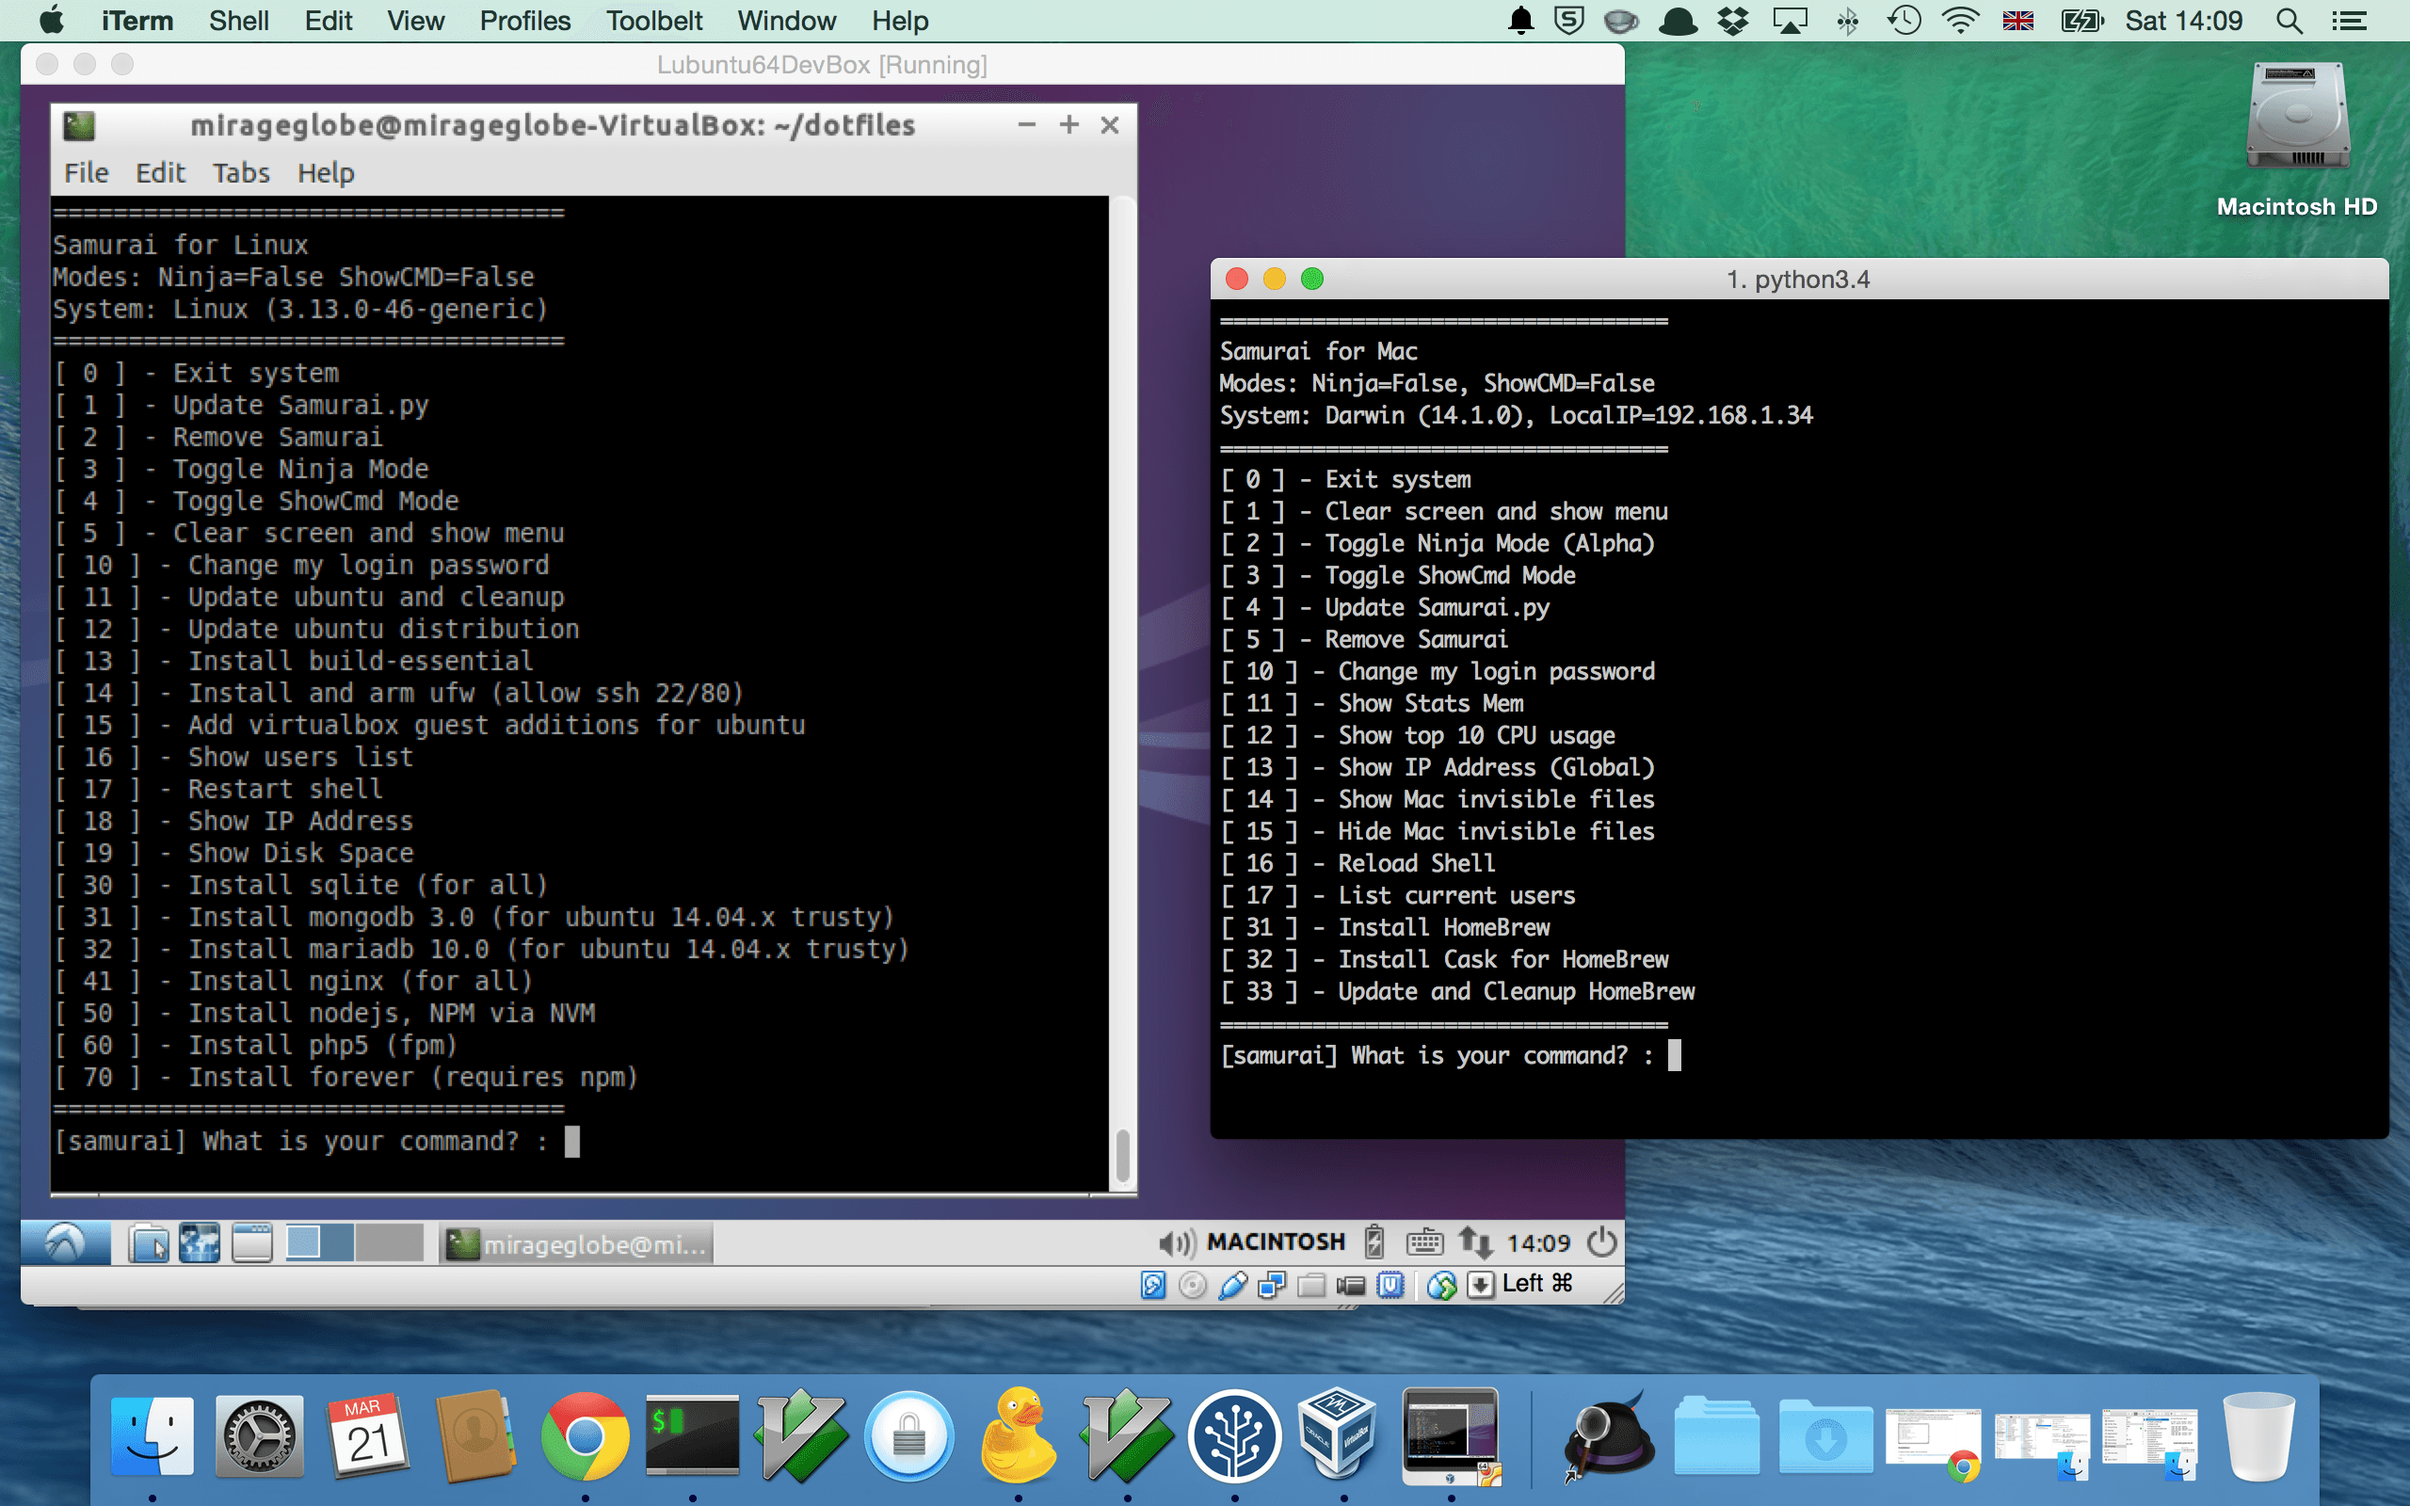
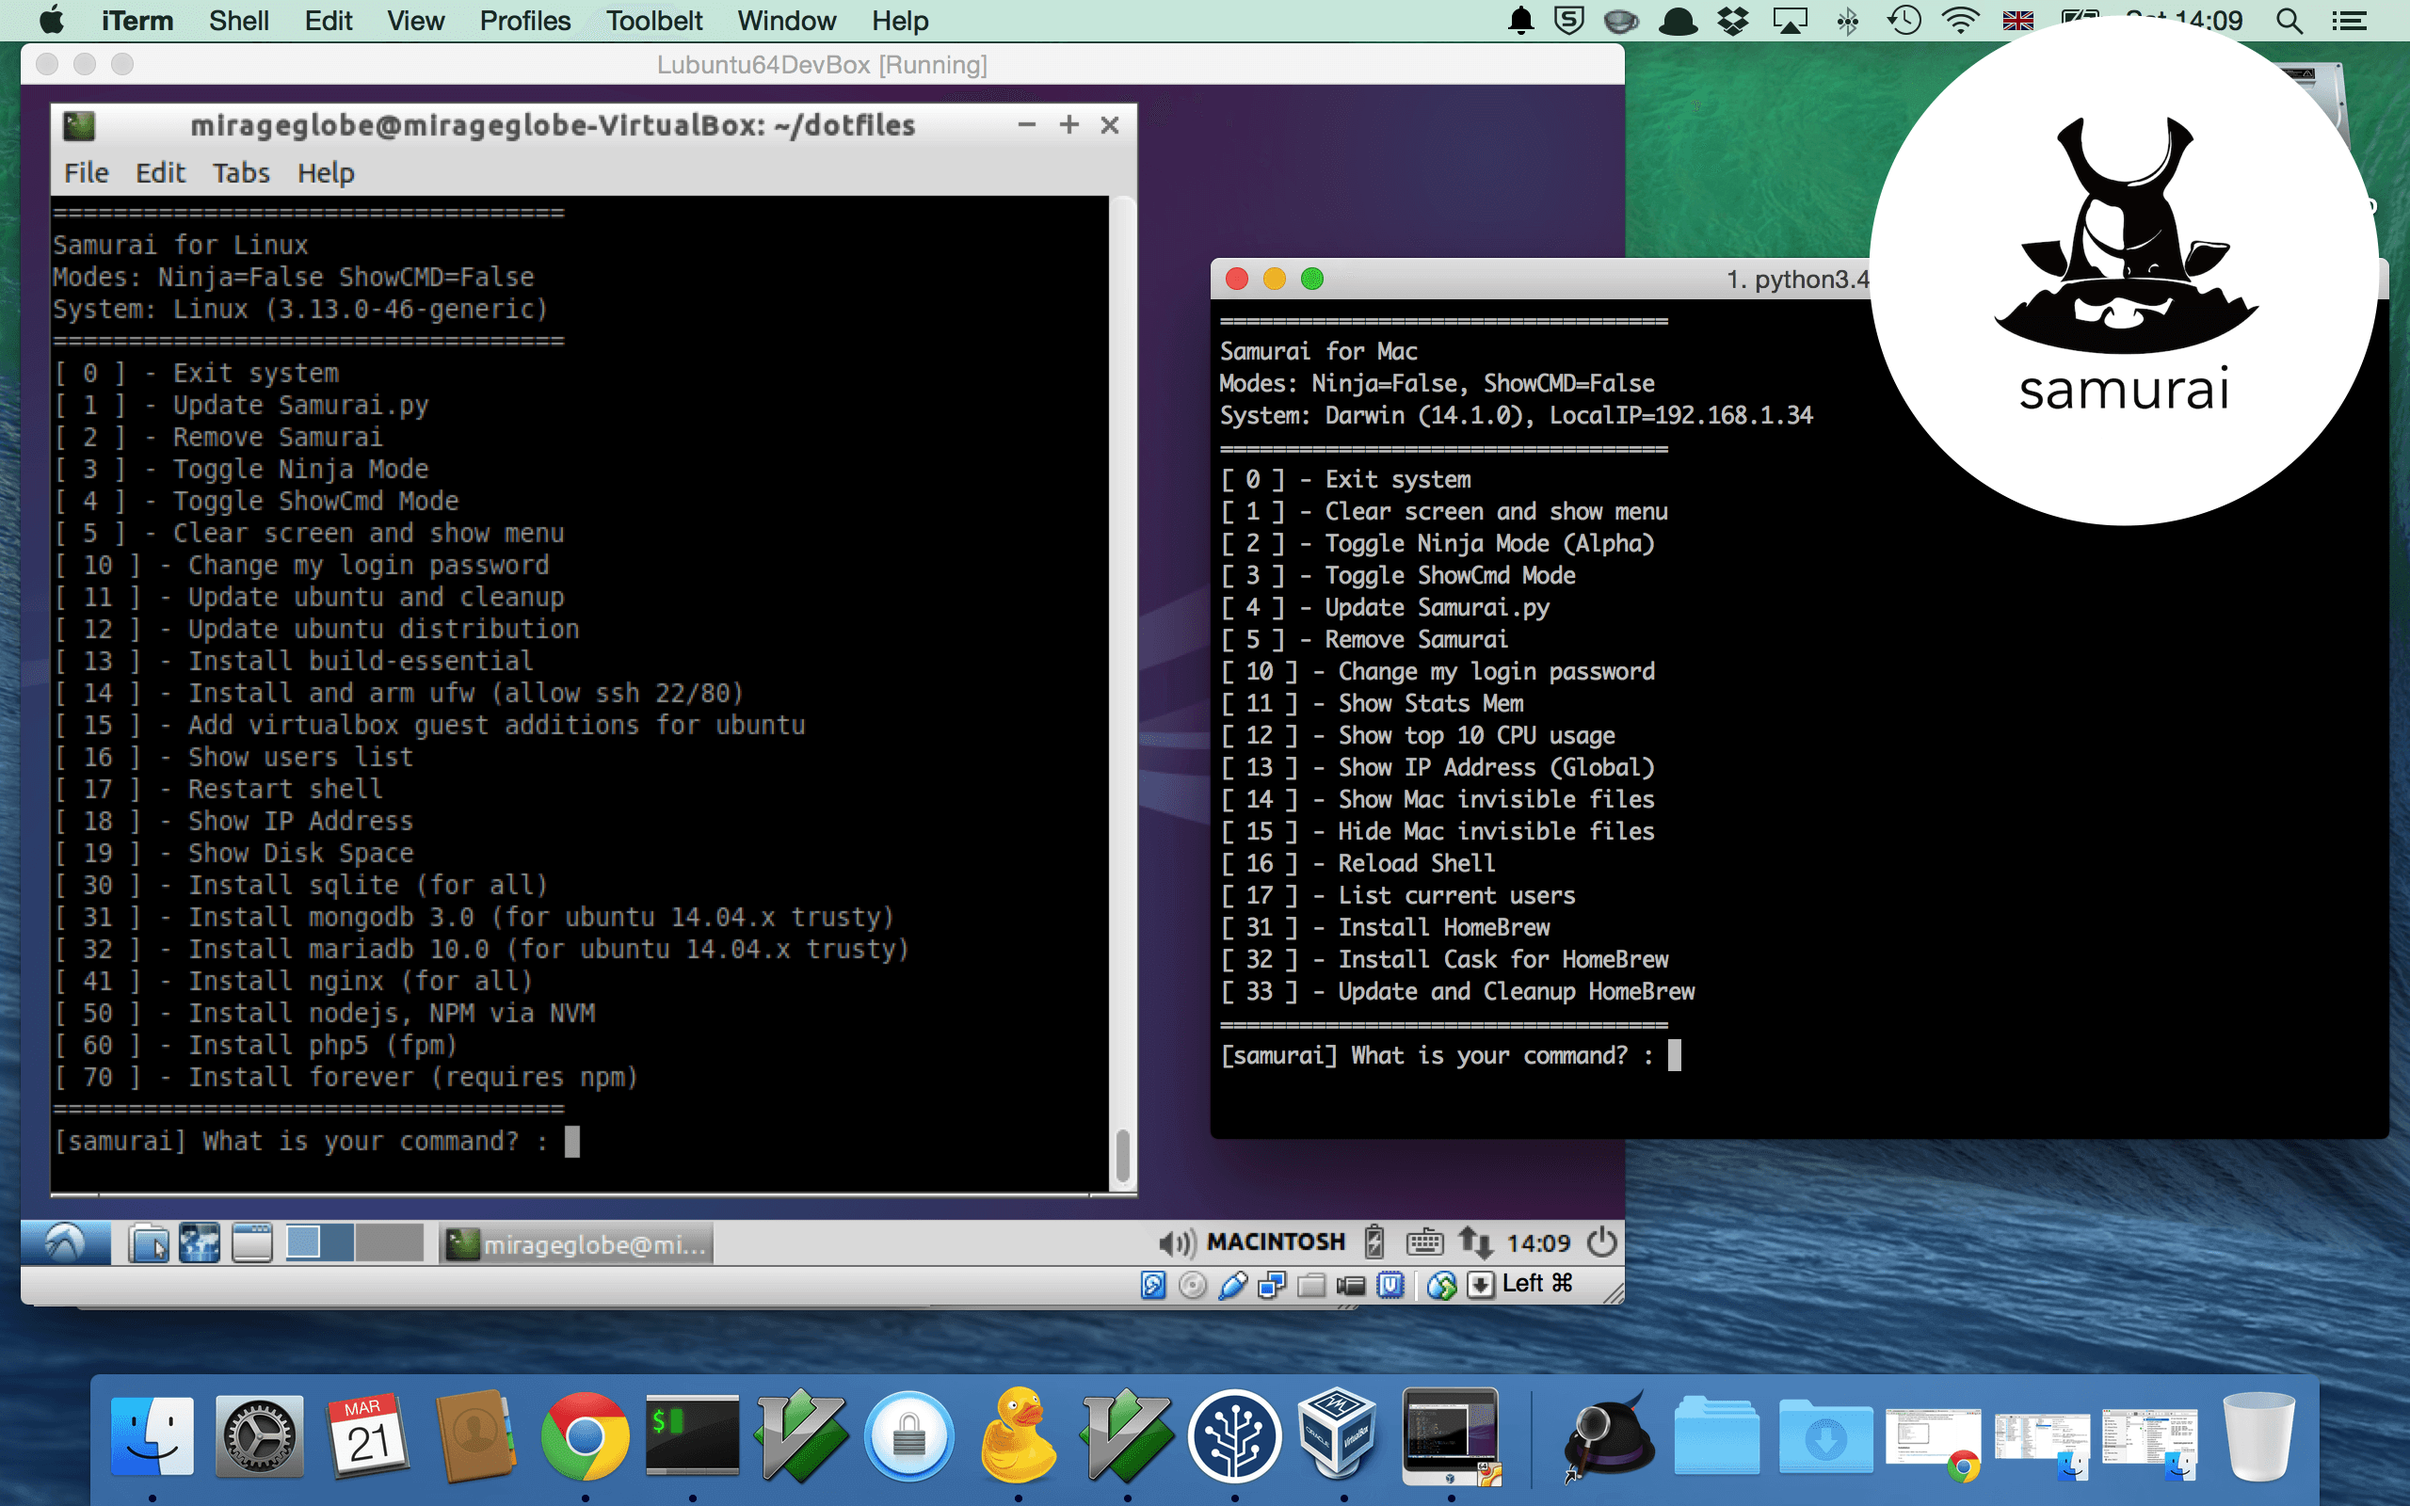
beautify front

Changed region(s): [[0.75, 0.0, 1.0, 0.375]]

diff --git a/README.md b/README.md
@@ -1,20 +1,18 @@
 Samurai
 ================================================
 
+![samurai menu](https://raw.githubusercontent.com/mirageglobe/samurai/master/samurai.png)
+
+Samurai (武士 meaning Warrior Serve) provides a simple interface for managing your machine. Samurai installs and setups the basic applications / packages for a *nix system. Samurai aims to drastically reduce learning curve and makes installations/monitoring easier.
+
+Project Information
+-----------------------------
 - Author: Jimmy MG Lim (mirageglobe@gmail.com)
 - Twitter: @mirageglobe
 - Blog: http://www.mirageglobe.com
 - Company: http://www.dracoturtur.com
 - Source: https://github.com/mirageglobe/samurai
 - License: Apache License 2.0
-
-
-![samurai logo](https://raw.githubusercontent.com/mirageglobe/samurai/master/samurailogo.png)
-
-
-Samurai (武士 meaning Warrior Serve) provides a simple interface for managing your machine. Samurai installs and setups the basic applications / packages for a *nix system. Samurai aims to drastically reduce learning curve and makes installations/monitoring easier.
-
-![samurai menu](https://raw.githubusercontent.com/mirageglobe/samurai/master/samurai.png)
 
 
 Installation and Removal
